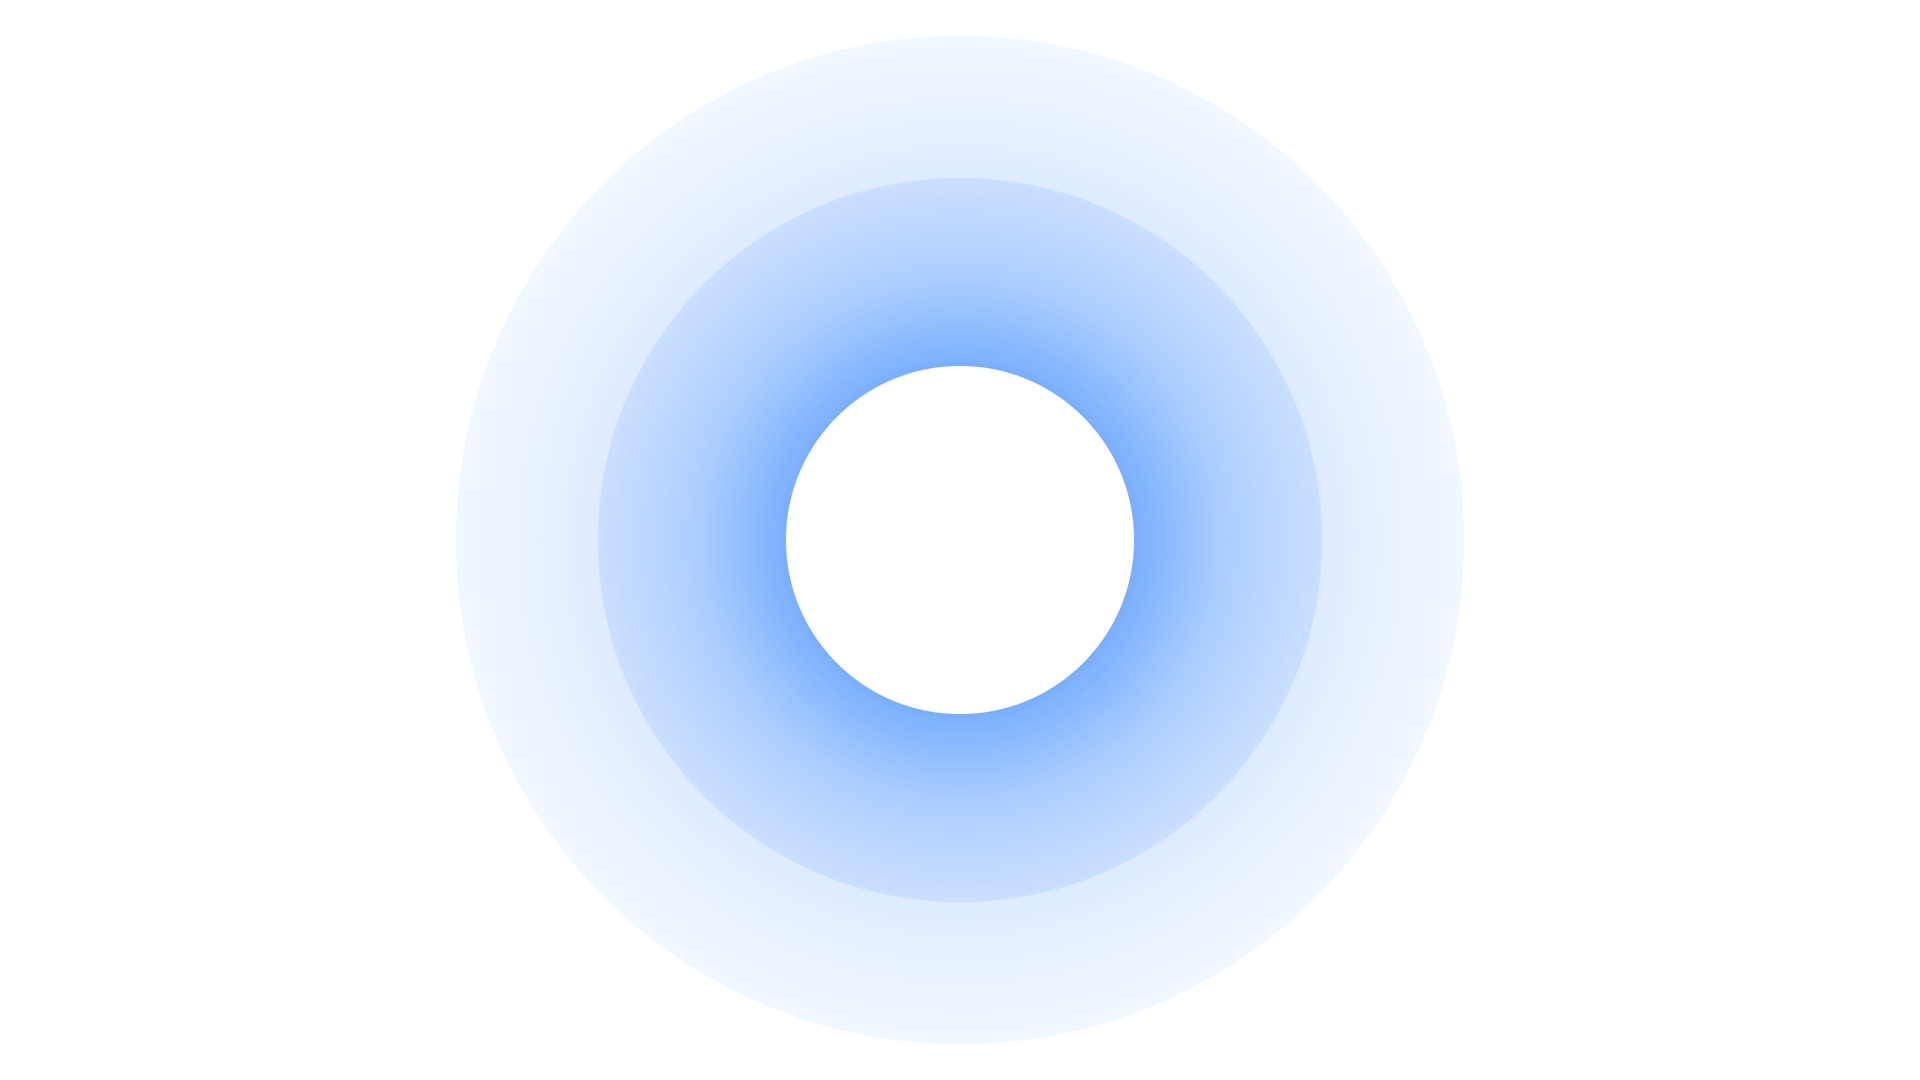
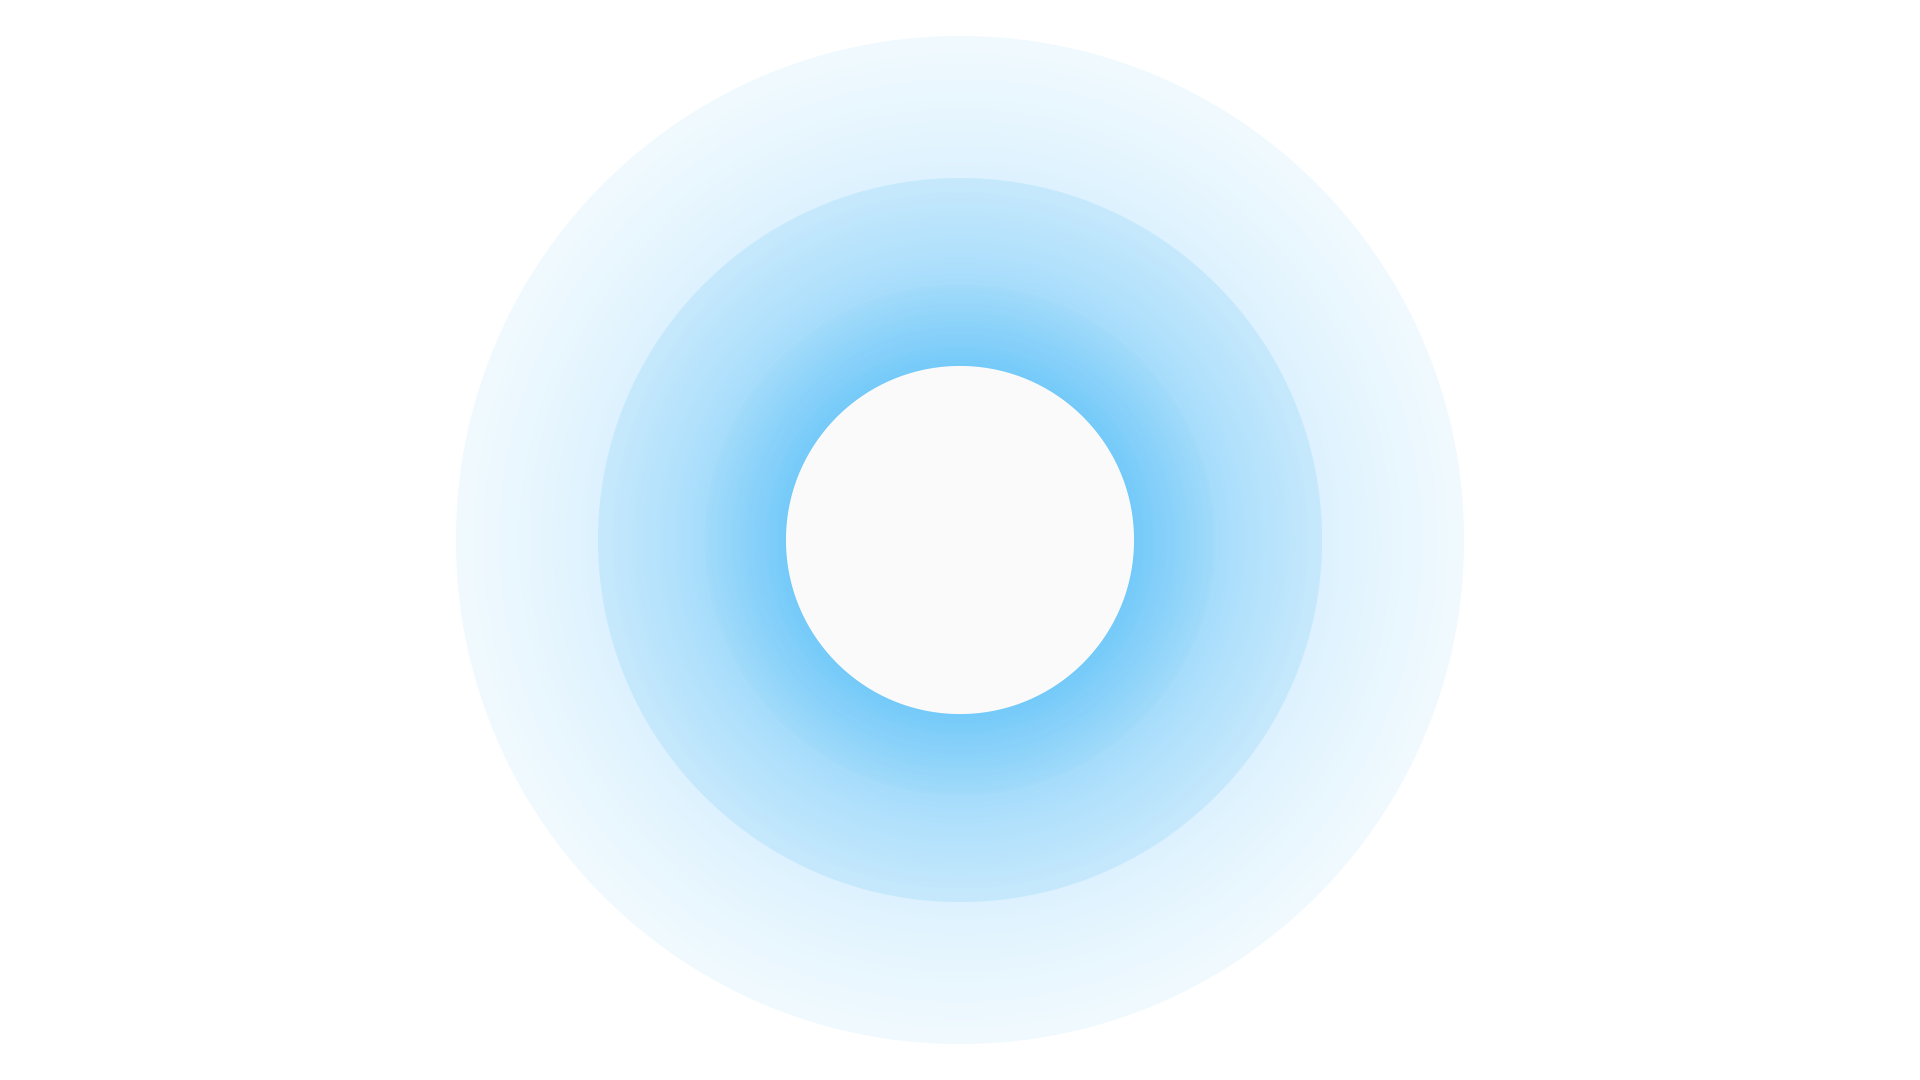
About us (#4)
* feat: upd img

* style: upd

* feat: add about

Changed region(s): [[0.375, 0.3667, 0.625, 0.7028], [0.4375, 0.3056, 0.5625, 0.3667]]

diff --git a/index.html b/index.html
@@ -12,7 +12,7 @@
         <div class="header__navbar">
           <div class="header__phone">
             <a class="phone-link" href="tel:+79015511196">
-              +7(901)-551-11-96
+              +7 (901)-551-11-96
             </a>
           </div>
           <input
@@ -96,7 +96,7 @@
       </header>
       <main class="main">
         <section class="services" id="services">
-          <div class="services__header">
+          <div class="services__header section-header">
             <span class="services__pretitle">мы предлагаем</span>
             <h2 class="services__title">Следующие услуги</h2>
           </div>
@@ -155,6 +155,24 @@
               </div>
               <div class="services__item service">
                 <div class="service__info">
+                  <h3 class="service__title">Открытие Расчетных Счетов</h3>
+                  <p class="service__text">
+                    Поможем вам выбрать банк, соответствующий вашим
+                    потребностям, сделаем подготовку необходимых документов и
+                    предоставим полное сопровождение в общении с банком, для
+                    открытия расчетного счета.
+                  </p>
+                  <a href="#" class="service__link">Подробнее</a>
+                </div>
+                <div
+                  class="service__img"
+                  style="
+                    background-image: url('./src/assets/images/card/bank.webp');
+                  "
+                ></div>
+              </div>
+              <div class="services__item service">
+                <div class="service__info">
                   <h3 class="service__title">Изменения в Госреестре</h3>
                   <p class="service__text">
                     Мы оперативно сформируем необходимый пакет документов для
@@ -207,27 +225,59 @@
                   "
                 ></div>
               </div>
-              <div class="services__item service">
-                <div class="service__info">
-                  <h3 class="service__title">Открытие расчетных счетов</h3>
-                  <p class="service__text">
-                    Поможем вам выбрать банк, соответствующий вашим
-                    потребностям, сделаем подготовку необходимых документов и
-                    предоставим полное сопровождение в общении с банком, для
-                    открытия расчетного счета.
-                  </p>
-                  <a href="#" class="service__link">Подробнее</a>
-                </div>
-                <div
-                  class="service__img"
-                  style="
-                    background-image: url('./src/assets/images/card/bank.webp');
-                  "
-                ></div>
-              </div>
+
             </div>
           </div>
         </section>
+        <section class="about">
+          <div class="about__header section-header">
+            <h2 class="about__title">
+              НЕСКОЛЬКО СЛОВ О КОМПАНИИ
+            </h2>
+          </div>
+          <div class="about__content">
+            <div class="about__info">
+              <div class="about__item">
+                <h4 class="about__heading">Профессионализм и опыт</h4>
+                <p class="about__text" class="about__text">
+                  Наша компания обладает значительным опытом в области регистрации и сопровождения бизнеса, что позволяет нам предоставлять высококачественные услуги нашим клиентам
+                </p>
+              </div>
+
+              <div class="about__item">
+                <h4 class="about__heading">Широкий спектр услуг</h4>
+                <p class="about__text">
+                  Которые охватывают все аспекты регистрации и сопровождения бизнеса – от создания ООО и ИП до продажи готовых фирм и оформления налоговых деклараций.
+                </p>
+              </div>
+
+              <div class="about__item">
+                <h4 class="about__heading">Надежность и безопасность</h4>
+                <p class="about__text">
+                  Мы тщательно проверяем все документы и информацию, чтобы исключить возможные риски и проблемы, строго соблюдаем конфиденциальность.
+                </p>
+              </div>
+
+              <div class="about__item">
+                <h4 class="about__heading">Индивидуальный подход</h4>
+                <p class="about__text">
+                  Мы стремимся понять потребности и ожидания каждого клиента, чтобы предложить наиболее подходящие решения и услуги.
+                </p>
+              </div>
+
+            </div>
+            <div class="about__img">
+              <img
+              class="about__logo"
+              src="./src/assets/images/logo.svg"
+              alt="logo"
+            />
+            </div>
+
+          </div>
+
+        </div>
+      </section>
       </main>
       <footer class="footer"></footer>
     </div>

diff --git a/src/styles/about.css b/src/styles/about.css
@@ -1,0 +1,82 @@
+.about {
+  overflow: hidden;
+  /* background: var(--main-white); */
+  background-image: linear-gradient(
+      rgba(240, 245, 252, 0.93),
+      rgba(223, 245, 255, 0.93)
+    ),
+    url('../assets/images/resurs.webp');
+  background-size:
+    auto,
+    350px auto;
+  border-radius: 2rem;
+  padding: 2rem 0;
+  box-shadow:
+    0px 5px 25px #b3baca,
+    -5px 0px 25px #f3fcff;
+}
+
+.about__content {
+  display: flex;
+  justify-content: space-between;
+  align-items: center;
+  margin: 0 2rem;
+}
+
+@media only screen and (max-width: 1200px) {
+  .about__content {
+    flex-direction: column;
+    gap: 3rem;
+  }
+}
+
+@media only screen and (max-width: 576px) {
+  .about__content {
+    margin: 0 1rem;
+  }
+}
+
+.about__title {
+  margin-bottom: 1.5rem;
+}
+
+.about__info {
+  flex: 1 0 65%;
+  display: grid;
+  grid-template-columns: 1fr 1fr;
+  grid-template-rows: 1fr 1fr;
+  gap: 1.5rem;
+}
+
+@media only screen and (max-width: 768px) {
+  .about__info {
+    grid-template-columns: 1fr;
+    grid-template-rows: 1fr;
+  }
+}
+
+.about__img {
+  flex: 0 1 35%;
+  display: flex;
+  justify-content: center;
+}
+
+.about__item {
+  padding: 0.8rem 0.5rem 0.5rem 0.8rem;
+  border-left: 2px solid var(--main-secondary);
+  background-image: var(--main-gradient-grid);
+}
+
+.about__item .about__heading {
+  margin-bottom: 0.5rem;
+  font-size: var(--font-size-md);
+}
+.about__item .about__text {
+  color: var(--main-text);
+  margin-bottom: 1rem;
+}
+
+.about__logo {
+  max-width: 320px;
+  height: 320px;
+}

diff --git a/src/styles/variables.css b/src/styles/variables.css
@@ -1,12 +1,16 @@
 :root {
-  --main-background: #d3dbee85;
+  --main-background: #d9deeb85;
   --main-text: #6f7780;
   --main-primary: #0b1f33;
-  --main-secondary: #3a5fe2;
+  --main-secondary: #21b1fe;
   --main-white: #e4eeff;
   --main-danger: #ae1e23;
-  --main-gradient: linear-gradient(180deg, #1a6bc8 20.95%, #479df8 134.42%);
-  --main-gradient-90: linear-gradient(90deg, #3683ff 30.95%, #4890ff 100.42%);
+  --main-gradient: linear-gradient(180deg, #21b1fe 30.95%, #22a9fa 100.42%);
+  --main-gradient-grid: linear-gradient(
+    90deg,
+    rgba(33, 177, 254, 0.1) 0%,
+    rgba(255, 255, 255, 0.1) 33%
+  );
 
   --index: calc(1vw + 1vh);
 

diff --git a/src/styles/base.css b/src/styles/base.css
@@ -20,7 +20,7 @@
 
 *::-webkit-scrollbar-thumb {
   border-radius: 4px;
-  background-color: #3683ff;
+  background-color: #21b1fe;
 }
 
 body {
@@ -41,6 +41,7 @@ h5 {
 
 h2 {
   font-size: var(--font-size-xxl);
+  text-transform: uppercase;
 }
 h3 {
   font-size: var(--font-size-md);
@@ -72,9 +73,19 @@ h3 {
 }
 
 .main section {
-  margin: 6rem 0;
+  margin-top: 4rem;
+  margin-bottom: 6rem;
 }
 
+.section-header {
+  margin-left: 2rem;
+}
+
+@media only screen and (max-width: 576px) {
+  .section-header {
+    margin-left: 1rem;
+  }
+}
 .no-scroll {
   overflow: hidden;
 }

diff --git a/src/styles/header.css b/src/styles/header.css
@@ -20,7 +20,7 @@
   align-items: center;
   gap: 0.3rem;
   color: var(--main-white);
-
+  font-family: var(--font-family-bold);
   text-decoration: none;
   transition: all 0.4s;
   z-index: 10;
@@ -90,7 +90,7 @@
   display: flex;
   justify-content: center;
   align-items: center;
-  background-image: var(--main-gradient-90);
+  background-image: var(--main-gradient);
   transition: all 0.5s ease;
   z-index: -1;
 }

diff --git a/src/styles/style.css b/src/styles/style.css
@@ -3,7 +3,7 @@
 @import './base.css';
 @import './header.css';
 @import './services.css';
-/* @import './main.css';
+@import './about.css'; /* @import './main.css';
 @import './footer.css'; */
 
 /*
